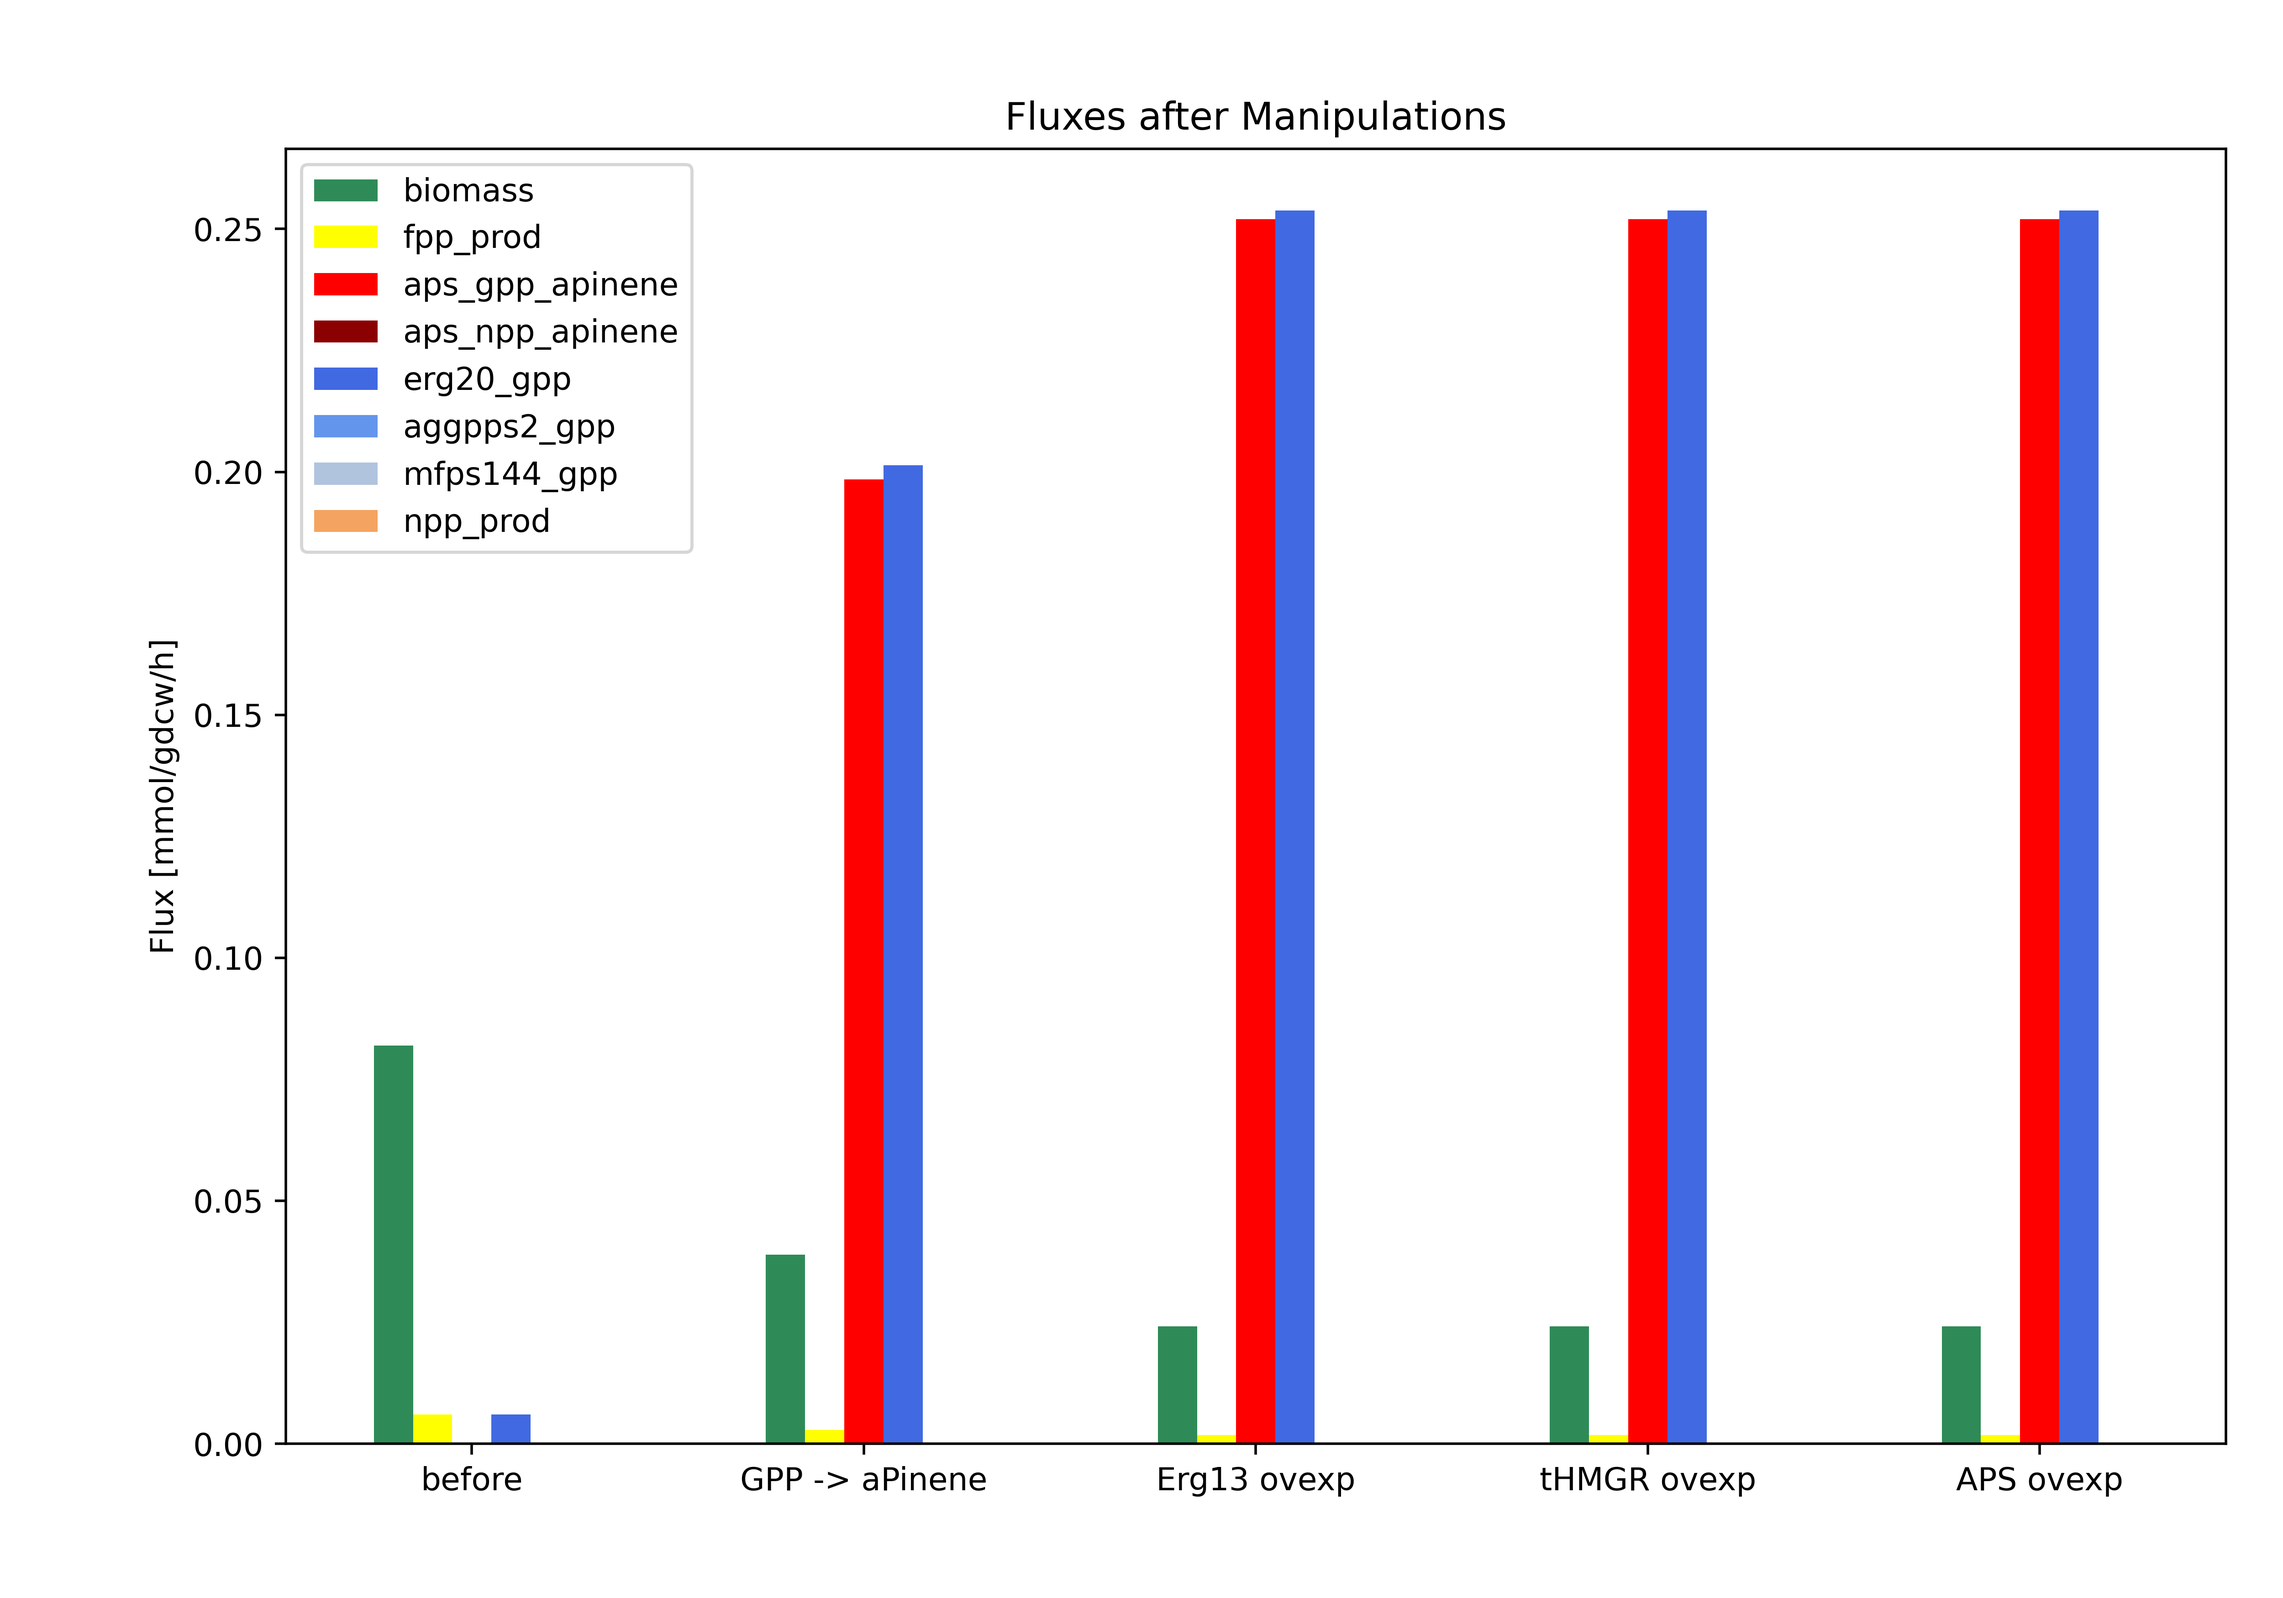
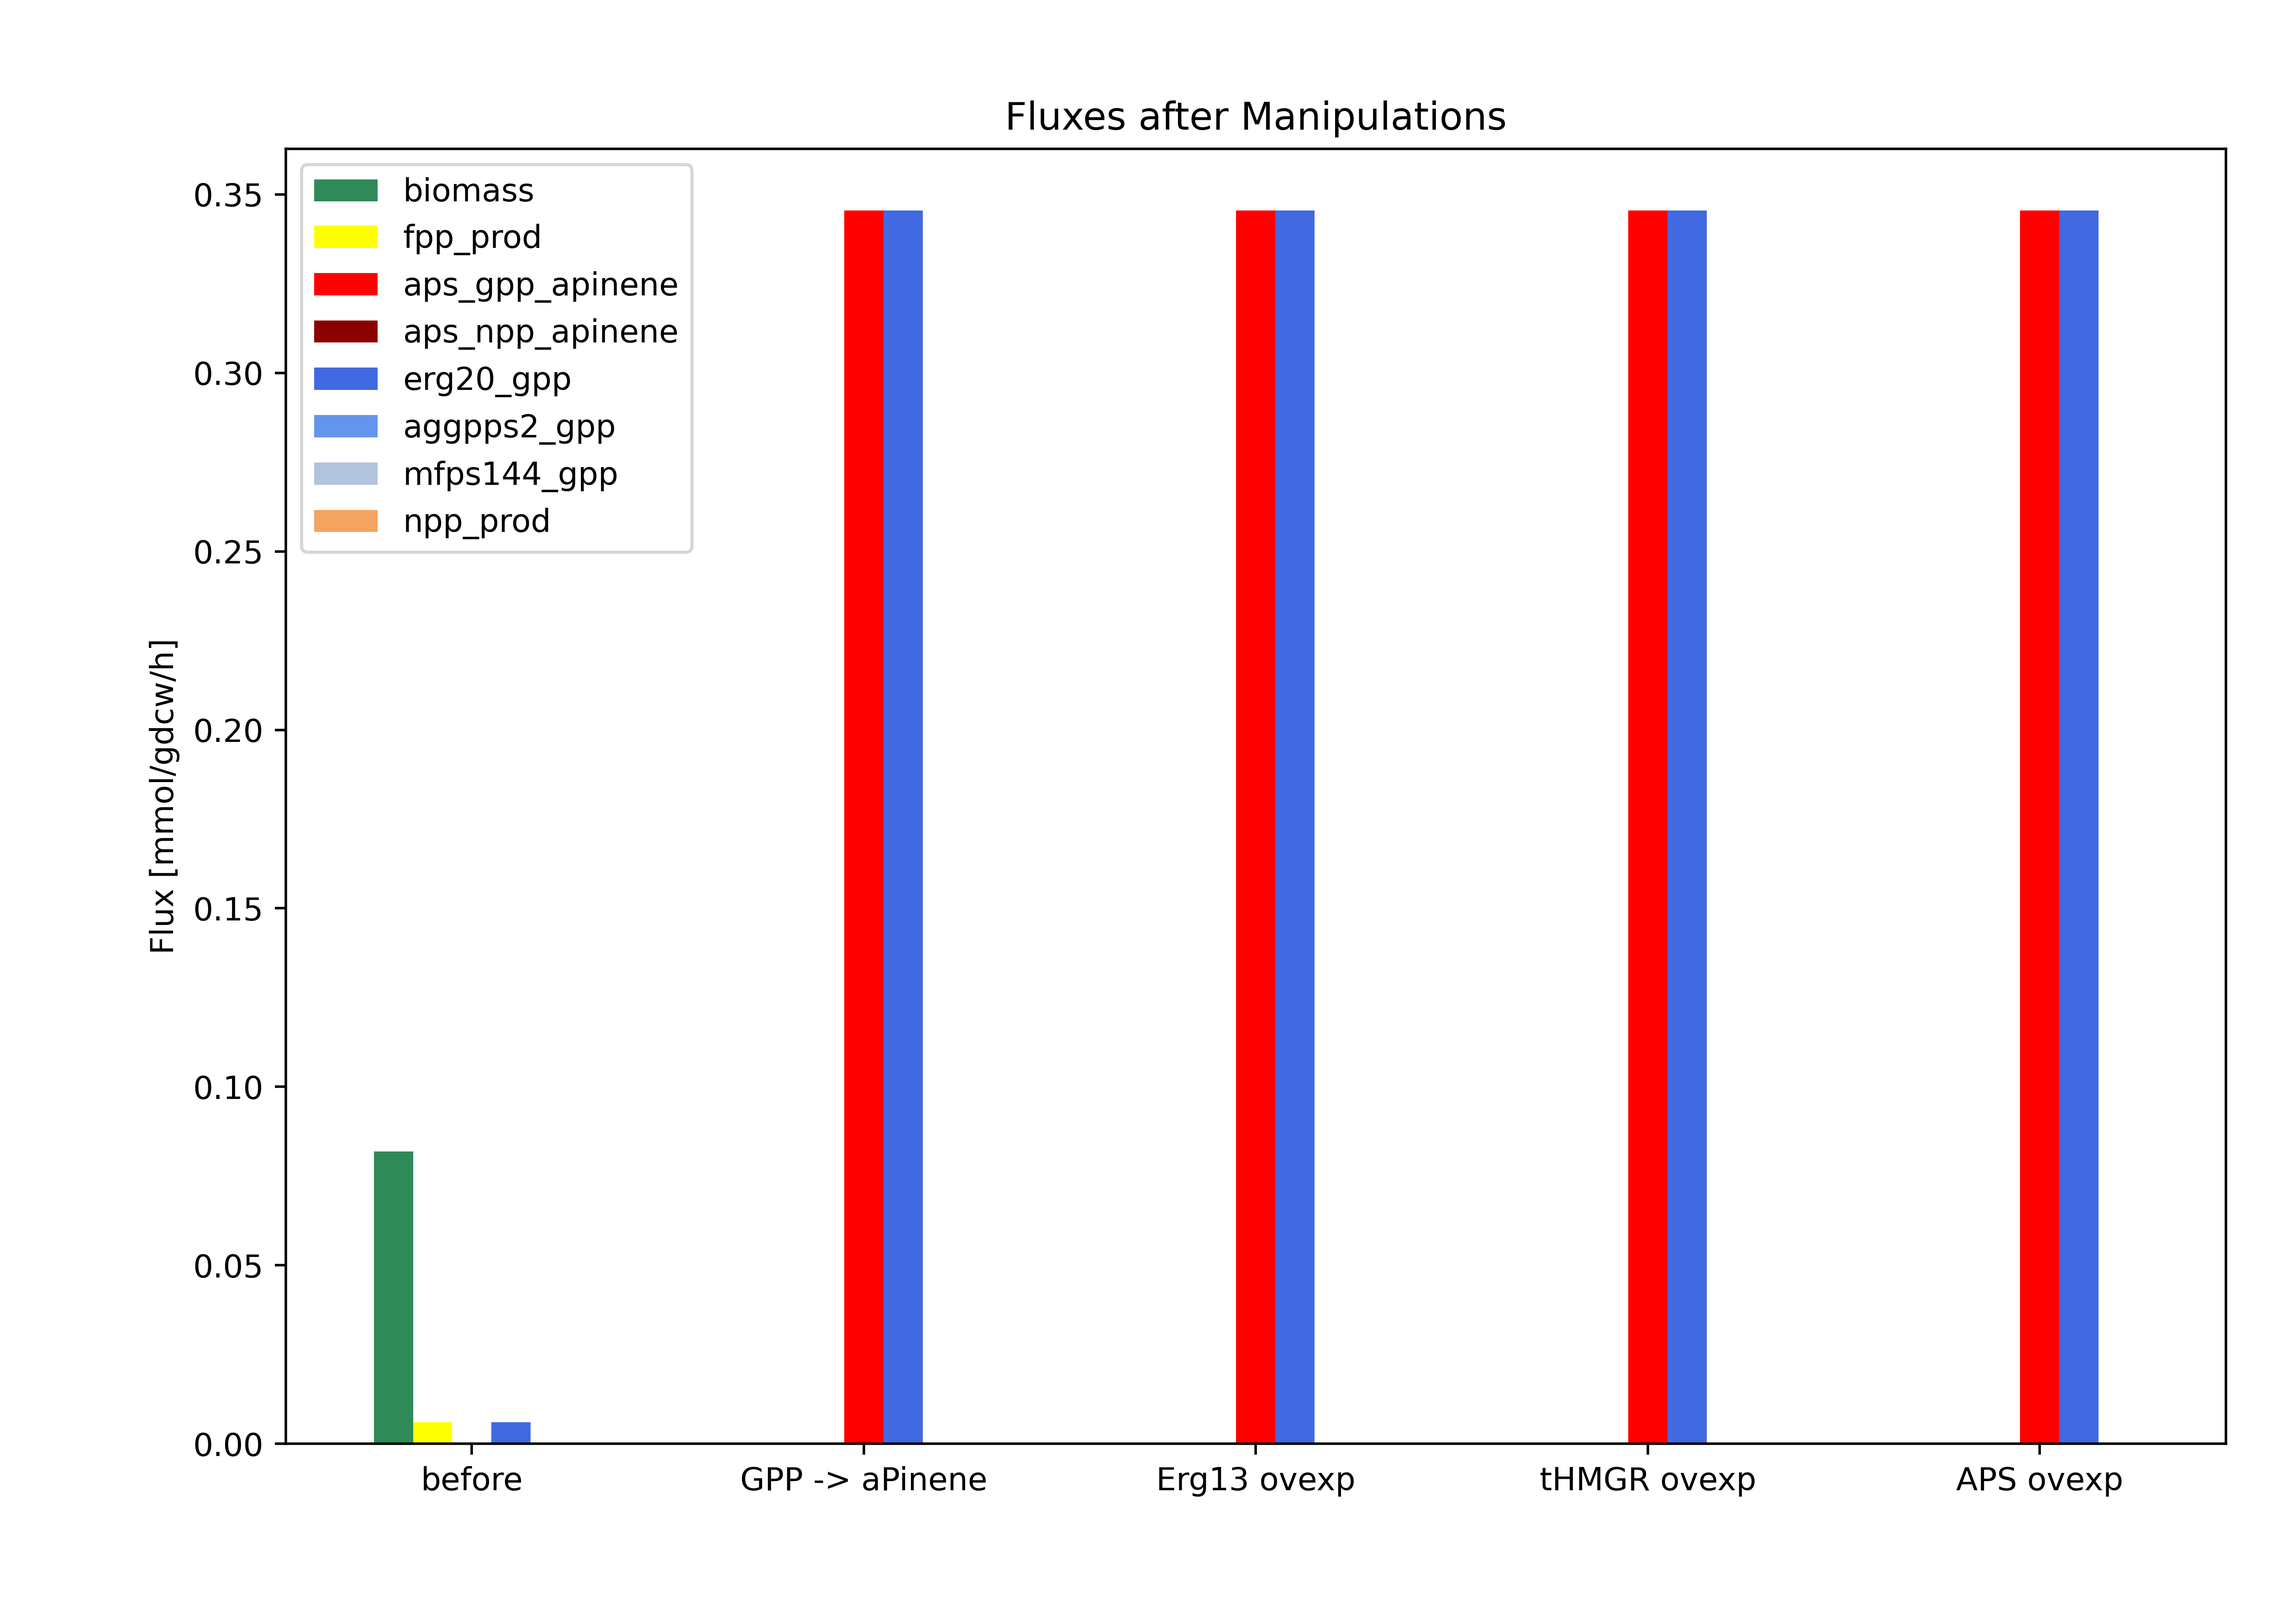
last changes before vacation

diff --git a/sc_cytosol.py b/sc_cytosol.py
@@ -3,10 +3,11 @@ from Model.model_utils import plot_fluxes, summarize_properties
 from cobra import Model, Reaction, Metabolite
 
 #constants:
-OVEREXPRESSION_LOWER_BOUND = 0.2
+OVEREXPRESSION_LOWER_BOUND = 0.0
 KNOCK_DOWN_HIGHER_BOUND = 500
-APINENE_OBJECTIVE_COEFFICIENT = 0.2
-GROWTH_OBJECTIVE_COEFFICIENT = 0.8
+APINENE_OBJECTIVE_COEFFICIENT = 1.0
+GROWTH_OBJECTIVE_COEFFICIENT = 1.0 - APINENE_OBJECTIVE_COEFFICIENT
+GROWTH_LOWER_BOUND = 0.0
 FLUX_LABELS = ["biomass", "fpp_prod", "aps_gpp_apinene", "erg20_gpp", "npp_prod", "aps_npp_apinene", "aggpps2_gpp", "mfps144_gpp"]
 COLORS = ['seagreen', 'yellow', 'red', 'royalblue', 'sandybrown', 'darkred', 'cornflowerblue', 'lightsteelblue']
 STACK_INDICES = [(5,6,7), (2,3,3)]
@@ -47,14 +48,20 @@ def simulate_variant_3():
         Erg20 regulation '''
     model, results = build_basic_model()
     # add manipulations one by one and print reactions fluxes every time
+    # add overexpressions of erg13 and tHMGR
+    model.reactions.get_by_id("r_0559").lower_bound = OVEREXPRESSION_LOWER_BOUND
+    results.append(solve_and_get_reaction_fluxes(model, "Erg13 ovexp"))
+    model.reactions.get_by_id("r_0558").lower_bound = OVEREXPRESSION_LOWER_BOUND
+    results.append(solve_and_get_reaction_fluxes(model, "tHMGR ovexp"))
+    model.reactions.get_by_id("r_gpp_aps_apinene").lower_bound = OVEREXPRESSION_LOWER_BOUND
+    results.append(solve_and_get_reaction_fluxes(model, "APS(GPP->) ovexp", "lower bound=" + str(OVEREXPRESSION_LOWER_BOUND)))
     add_npp_pathway(model)
     results.append(solve_and_get_reaction_fluxes(model, "+SiNPPS2"))
-    # add overexpressions of new genes
-    model.reactions.get_by_id("r_gpp_aps_apinene").lower_bound = OVEREXPRESSION_LOWER_BOUND
-    model.reactions.get_by_id("r_npp_aps_apinene").lower_bound = OVEREXPRESSION_LOWER_BOUND
-    results.append(solve_and_get_reaction_fluxes(model, "APS ovexp", "lower bound=" + str(OVEREXPRESSION_LOWER_BOUND)))
     model.reactions.get_by_id("r_dmapp_sinpps2_npp").lower_bound = OVEREXPRESSION_LOWER_BOUND
     results.append(solve_and_get_reaction_fluxes(model, "SiNPPS2 ovexp", "lower bound=" + str(OVEREXPRESSION_LOWER_BOUND)))
+    model.reactions.get_by_id("r_npp_aps_apinene").lower_bound = OVEREXPRESSION_LOWER_BOUND
+    results.append(solve_and_get_reaction_fluxes(model, "APS(NPP->) ovexp", "lower bound=" + str(OVEREXPRESSION_LOWER_BOUND)))
+    
     # add downregulation of Erg20
     model.reactions.get_by_id("r_0355").higher_bound = KNOCK_DOWN_HIGHER_BOUND # gpp production
     model.reactions.get_by_id("r_0462").higher_bound = KNOCK_DOWN_HIGHER_BOUND # fpp production
@@ -110,7 +117,7 @@ def build_basic_model():
     reactions_list = list()
     # new metabolites:
     aPinene = Metabolite('aPinene', formula='C10H16', name='Alphapinene', compartment='c')
-    # biological reaction: 1.0 GPP -> 1.0 aPinene
+    # biological reaction: 1.0 GPP -> 1.0 aPinene + 1.0 PPi
     react_gpp_alphapinene = Reaction('r_gpp_aps_apinene')
     react_gpp_alphapinene.name = 'GPP -> aPinene + PPi'
     react_gpp_alphapinene.subsystem = 'Cytoplasm'
@@ -138,6 +145,7 @@ def build_basic_model():
 
     model.objective = {model.reactions.get_by_id("r_apinene_con"): APINENE_OBJECTIVE_COEFFICIENT, 
                     model.reactions.get_by_id("r_2111"): GROWTH_OBJECTIVE_COEFFICIENT}
+    model.reactions.get_by_id("r_2111").lower_bound = GROWTH_LOWER_BOUND
     results.append(solve_and_get_reaction_fluxes(model, "GPP -> aPinene", "and objective to aPinene:"
                     +str(APINENE_OBJECTIVE_COEFFICIENT) + "/growth:" + str(GROWTH_OBJECTIVE_COEFFICIENT)))
     return model, results
@@ -171,6 +179,8 @@ def add_erg20_ko_and_alternative(model):
     })
     react_ipp_dmapp_gpp.gene_reaction_rule = '(mFPS144)'
 
+    # internal GPP production: s_0943 + s_1376 --> s_0633 + s_0745 (exactly the same)
+
     react_ipp_gpp_fpp = Reaction('r_ipp_gpp_mfps144_fpp')
     react_ipp_gpp_fpp.name = 'IPP + GPP -> FPP + PPi'
     react_ipp_gpp_fpp.subsystem = 'Cytoplasm'
@@ -189,7 +199,7 @@ def add_erg20_ko_and_alternative(model):
     reactions_list.append(react_ipp_gpp_fpp)
     model.add_reactions(reactions_list)
 
-    model.genes.YJL167W.knock_out() # knocks out Erg20
+    #model.genes.YJL167W.knock_out() # knocks out Erg20
 
 
 def add_npp_pathway(model):
@@ -246,6 +256,7 @@ def solve_and_get_reaction_fluxes(model, change_biological="", change_technical=
     print(" - "+str(l[6])+" by AgGPPS2"); print(" - "+str(l[7])+" by mFPS144")
     print(" - "+str(l[3])+" by Erg20"); 
     print("npp production flux: " + str(l[4]))
+    print("-> SOLVER STATUS: "+ solution.status + " <-")
     return l[:len(l)-1] + [change_biological]
     
 

diff --git a/sc_peroxisome.py b/sc_peroxisome.py
@@ -6,10 +6,10 @@ from matplotlib import pyplot as plt
 import numpy as np
 
 #class-specific constants:
-OVEREXPRESSION_LOWER_BOUND = 0.2 # or maybe not class-sepcific at the end? -> then import from constants.py
+OVEREXPRESSION_LOWER_BOUND = 0.0 # or maybe not class-sepcific at the end? -> then import from constants.py
 KNOCK_DOWN_HIGHER_BOUND = 500
-APINENE_OBJECTIVE_COEFFICIENT = 0.2
-GROWTH_OBJECTIVE_COEFFICIENT = 0.8
+APINENE_OBJECTIVE_COEFFICIENT = 1.0
+GROWTH_OBJECTIVE_COEFFICIENT = 1 - APINENE_OBJECTIVE_COEFFICIENT
 FLUX_LABELS = ["biomass", "fpp_prod", "aps_gpp_apinene", "aggpps2_gpp", "npp_prod", "aps_npp_apinene", "mfps144_gpp"]
 COLORS = ['seagreen', 'yellow', 'red', 'cornflowerblue', 'sandybrown', 'darkred', 'lightsteelblue']
 STACK_INDICES = [(5,6), (2,3)]
@@ -46,14 +46,15 @@ CO2 = reference.metabolites.get_by_id("s_0462")
 Diphosphate = reference.metabolites.get_by_id("s_0638")
 
 # initilize reaction obchange_info_offsetects for heterologous reactions
-Erg10_reaction = Reaction(id="MVA1", name="2.0 Acetyl-CoA --> 1.0 Acetoacetyl-CoA + 1.0 CoA", upper_bound=1000.0)
+Erg10_reaction = Reaction(id="MVA1", name="2.0 Acetyl-CoA --> 1.0 Acetoacetyl-CoA + 1.0 CoA", upper_bound=1000.0, lower_bound=0)
+
 Erg13_reaction = Reaction(id="MVA2", name="1.0 Acetyl-CoA + 1.0 Acetoacetyl-CoA --> 1.0 HMG-CoA + 1.0 CoA", upper_bound=1000.0, lower_bound=OVEREXPRESSION_LOWER_BOUND)
 tHMGR_reaction = Reaction(id="MVA3", name="1.0 HMG-CoA + 2.0 NADPH + 2 h_p --> 1.0 Mevalonate + 2.0 NADP + 1.0 CoA", upper_bound=1000.0, lower_bound=OVEREXPRESSION_LOWER_BOUND)
 
 Erg12_reaction = Reaction(id="MVA4", name="1.0 Mevalonate + 1.0 ATP --> 1.0 Mevalonat-P + 1.0 ADP + 1.0 h_p", upper_bound=1000.0)
 Erg8_reaction = Reaction(id="MVA5", name="1.0 Mevalonate-P + 1.0 ATP --> 1.0 Mevalonat-PP + 1.0 ADP", upper_bound=1000.0)
-Erg19_reaction = Reaction(id="MVA6", name="1.0 Mevalonate-PP + 1.0 ATP --> 1.0 IPP + 1.0 ADP + 1.0 PO4 + 1.0 CO2", lower_bound=None, upper_bound=1000.0) #irreversible reactions, so lower_bound = None
-Idi1_reaction = Reaction(id="MVA7", name="1.0 IPP <--> 1.0 DMAPP", upper_bound=1000.0)
+Erg19_reaction = Reaction(id="MVA6", name="1.0 Mevalonate-PP + 1.0 ATP --> 1.0 IPP + 1.0 ADP + 1.0 PO4 + 1.0 CO2", upper_bound=1000.0, lower_bound=0)
+Idi1_reaction = Reaction(id="MVA7", name="1.0 IPP <--> 1.0 DMAPP", upper_bound=1000.0, lower_bound=-1000) #reversible reaction
 
 AgGPPS2_reaction = Reaction(id="MVA8", name="1.0 IPP + 1.0 DMAPP --> 1.0 GPP + 1.0 Diphosphate", upper_bound=1000.0, lower_bound=OVEREXPRESSION_LOWER_BOUND)
 mFPS144_GPP_reaction = Reaction(id="MVA9", name="1.0 IPP + 1.0 DMAPP --> 1.0 GPP + 1.0 Diphosphate", upper_bound=1000.0, lower_bound=OVEREXPRESSION_LOWER_BOUND)
@@ -61,7 +62,7 @@ mFPS144_FPP_reaction = Reaction(id="MVA10", name="1.0 IPP + 1.0 DMAPP --> 1.0 FP
 SiNPPS1_reaction = Reaction(id="MVA11", name="1.0 IPP + 1.0 DMAPP --> 1.0 NPP + 1.0 Diphosphate", upper_bound=1000.0, lower_bound=OVEREXPRESSION_LOWER_BOUND)
 APS_npp_reaction = Reaction(id="MVA12", name="1.0 NPP --> 1.0 Alpha-Pinene + 1.0 Diphosphate", upper_bound=1000.0, lower_bound=OVEREXPRESSION_LOWER_BOUND)
 APS_gpp_reaction = Reaction(id="MVA13", name="1.0 GPP --> 1.0 Alpha-Pinene + 1.0 Diphosphate", upper_bound=1000.0, lower_bound=OVEREXPRESSION_LOWER_BOUND)
-APinene_con_reaction = Reaction(id="r_apinene_con", name="1.0 Alpha-Pinene ->", upper_bound=1000.0)
+APinene_con_reaction = Reaction(id="r_apinene_con", name="1.0 Alpha-Pinene ->", upper_bound=1000.0, lower_bound=0)
 
 
 # Add metabolites and reaction stoichiometry to reaction obchange_info_offsetects
@@ -211,6 +212,7 @@ def solve_and_get_reaction_fluxes(model, change_biological="", change_technical=
     print("gpp production flux: "+ str(gpp_prod) + " of which")
     print(" - "+str(l[3])+" by AgGPPS2"); print(" - "+str(l[6])+" by mFPS144")
     print("npp production flux: " + str(l[4]))
+    print("-> SOLVER STATUS: "+ solution.status + " <-")
     return l + [change_biological]
 
 
@@ -218,6 +220,7 @@ def solve_and_get_reaction_fluxes(model, change_biological="", change_technical=
 for reaction in reactionlist:
     model.add_reaction(reaction)
 
+#write_yeast_model(model)
 
 # --- Step 2: FBA of both models ---
 referenceState = reference.optimize()

diff --git a/Model/model_utils.py b/Model/model_utils.py
@@ -3,7 +3,6 @@
 # Don't forget: for almost every thing we want to do, there might already 
 # be a perfectly fitting function!
 
-from inspect import stack
 import math
 from matplotlib import pyplot as plt
 import numpy as np

diff --git a/Model/constants.py b/Model/constants.py
@@ -1,4 +1,4 @@
-# global constants
+# global model constants
 
 OVEREXPRESSION_LOWER_BOUND = 0.2
 KNOCK_DOWN_HIGHER_BOUND = 500
